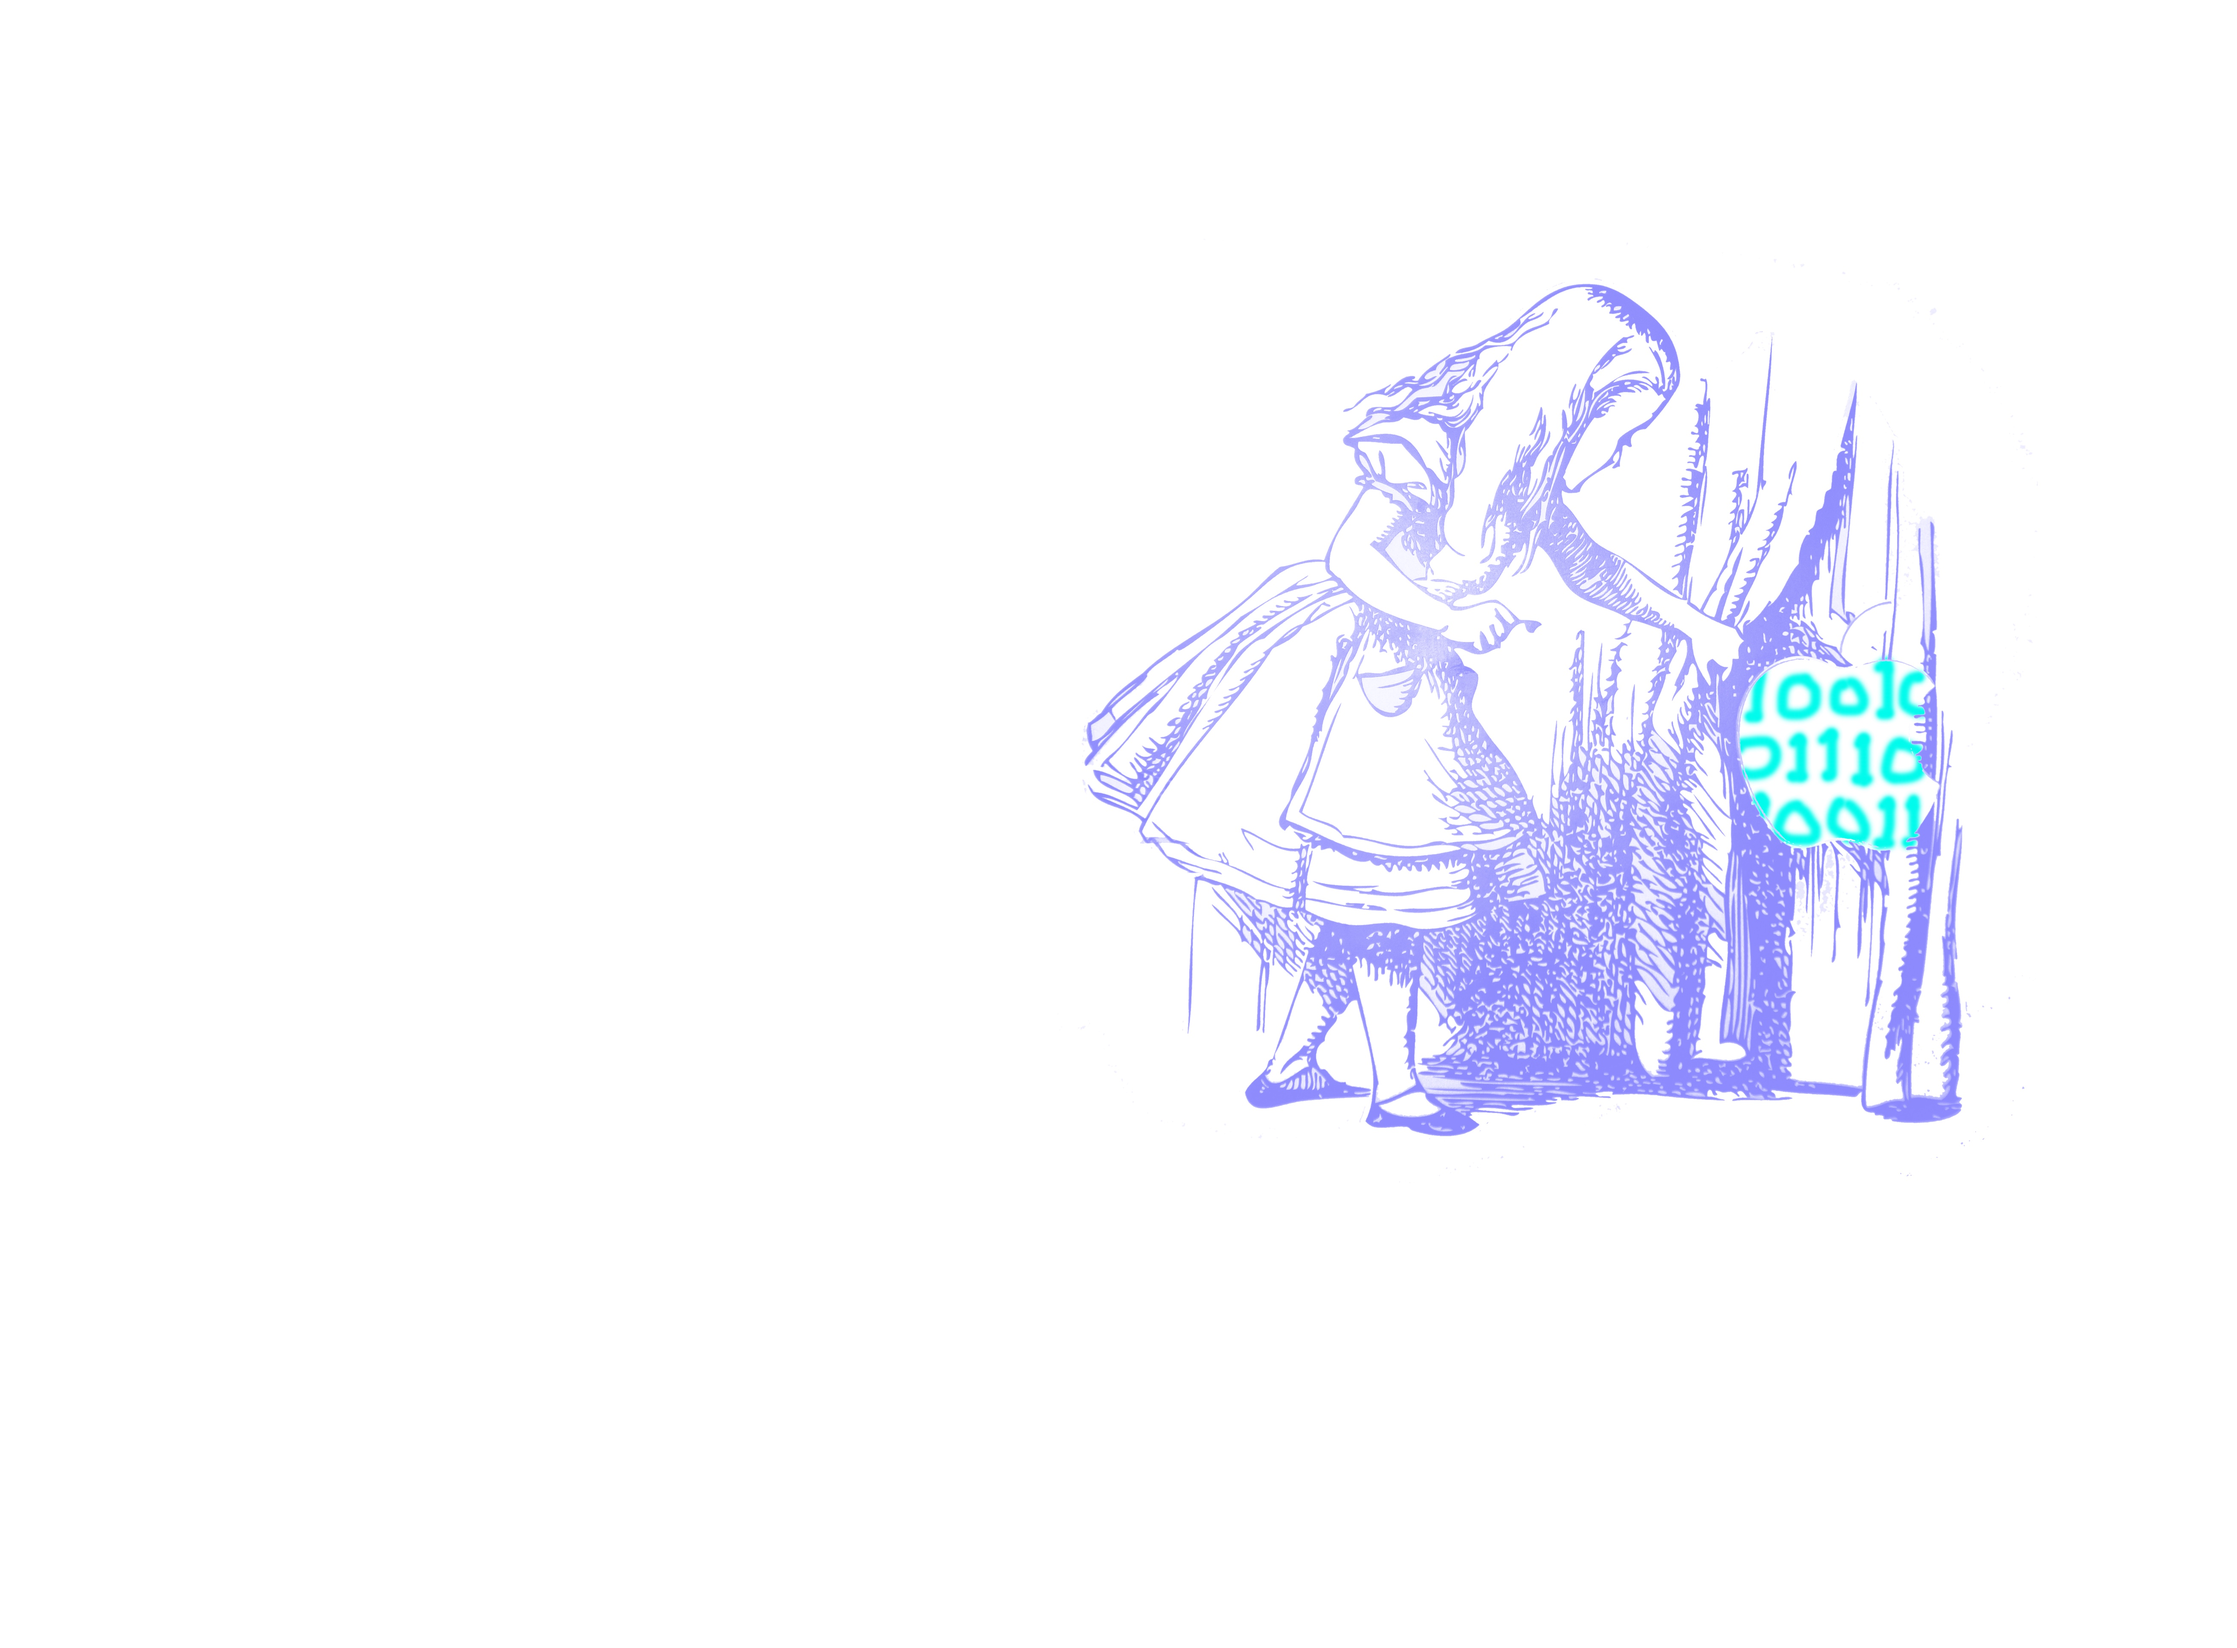
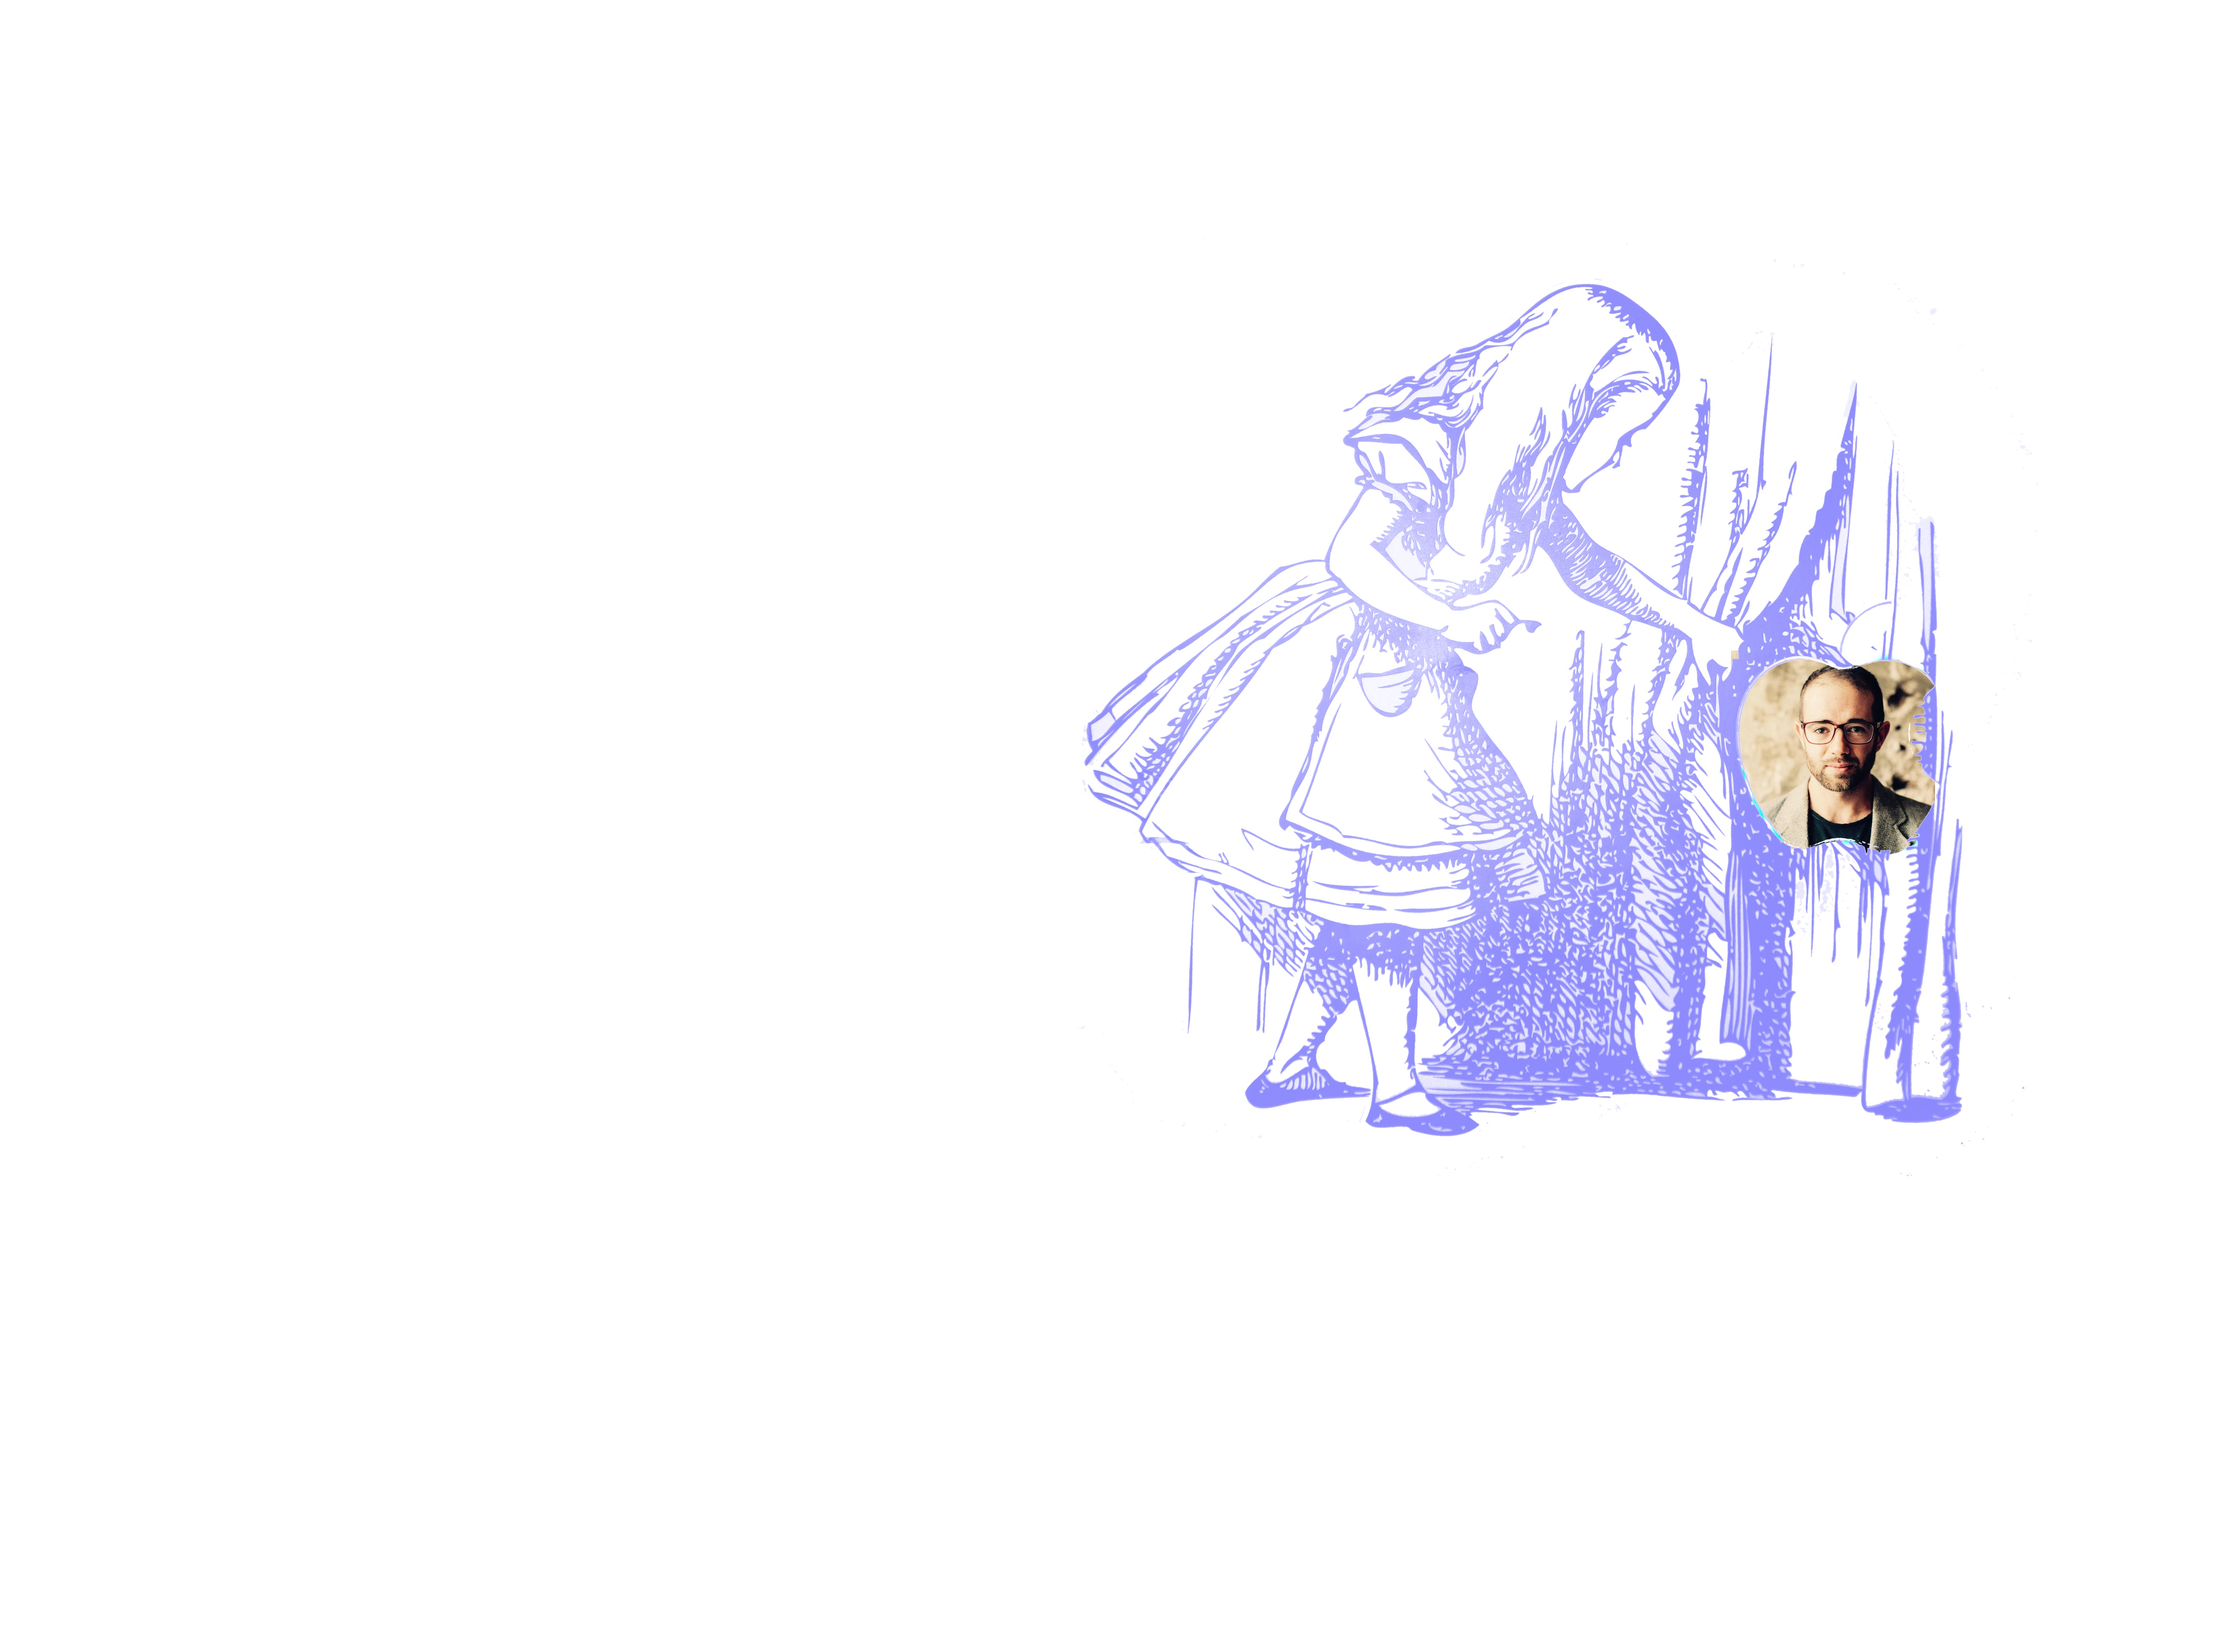
updated about page

Changed region(s): [[0.7771, 0.4038, 0.8703, 0.5281]]

diff --git a/_site/about.html b/_site/about.html
@@ -2,7 +2,7 @@
 <html lang="en">
 <head>
   <meta charset="utf-8">
-  <title>BLOG</title>
+  <title>kHodeR</title>
   <link href='https://cdnjs.cloudflare.com/ajax/libs/materialize/0.97.3/css/materialize.min.css' rel='stylesheet'>
   <link href="/css/reset.css" rel="stylesheet" />
   <link href="/css/styles.css" rel="stylesheet" />
@@ -30,25 +30,26 @@
       </div>
     </nav>
   </div>
-
-
 <!--
   <div class="container"> -->
 <body>
 
 
-<div id="date_box">
-  <p id="date">About</p>
-</div>
-<div id="blog_post">
-  <p id="content"> Steven Olson worked for 10 years as a commercial fisherman in Alaska before enrolling
-    at the <a href="http://turing.io/">Turing School of Software and Design</a>, where he is currently
-    studying full stack web development. He has a BA in English from Colorado Mesa University, and a
-    passion for travel and photography.
-    </p>
+<div style="background-image: url('/images/background.jpg')"></div>
+
+  <div id="preview">
+    <div id="date_box">
+      <h2 id="date">Steve Olson</h2>
+    </div>
+    I worked for 10 years as a commercial fisherman in Alaska before enrolling
+      at the <a href="http://turing.io/">Turing School of Software and Design</a>, where I'm currently
+      studying full stack web development. I have a BA in English from Colorado Mesa University, and a
+      passion for travel and photography.
+
+    <img id="profile_pic" src="/images/steve.jpg" alt="Steve Olson" alt="Steven Olson"/>
+  </div>
 
 </div>
-<img id="profile_pic" src="/images/steve.jpg" alt="Steve Olson" alt="Steven Olson"/>
 
 
 <!-- </div> -->

diff --git a/about.html b/about.html
@@ -1,16 +1,18 @@
 ---
 layout: default
 ---
+<div style="background-image: url('/images/background.jpg')"></div>
 
-<div id="date_box">
-  <p id="date">About</p>
-</div>
-<div id="blog_post">
-  <p id="content"> Steven Olson worked for 10 years as a commercial fisherman in Alaska before enrolling
-    at the <a href="http://turing.io/">Turing School of Software and Design</a>, where he is currently
-    studying full stack web development. He has a BA in English from Colorado Mesa University, and a
-    passion for travel and photography.
-    </p>
+  <div id="preview">
+    <div id="date_box">
+      <h2 id="date">Steve Olson</h2>
+    </div>
+    I worked for 10 years as a commercial fisherman in Alaska before enrolling
+      at the <a href="http://turing.io/">Turing School of Software and Design</a>, where I'm currently
+      studying full stack web development. I have a BA in English from Colorado Mesa University, and a
+      passion for travel and photography.
+
+    <img id="profile_pic" src="/images/steve.jpg" alt="Steve Olson" alt="Steven Olson"/>
+  </div>
 
 </div>
-<img id="profile_pic" src="/images/steve.jpg" alt="Steve Olson" alt="Steven Olson"/>

diff --git a/_site/index.html b/_site/index.html
@@ -2,7 +2,7 @@
 <html lang="en">
 <head>
   <meta charset="utf-8">
-  <title>BLOG</title>
+  <title>kHodeR</title>
   <link href='https://cdnjs.cloudflare.com/ajax/libs/materialize/0.97.3/css/materialize.min.css' rel='stylesheet'>
   <link href="/css/reset.css" rel="stylesheet" />
   <link href="/css/styles.css" rel="stylesheet" />
@@ -30,8 +30,6 @@
       </div>
     </nav>
   </div>
-
-
 <!--
   <div class="container"> -->
 <body>
@@ -40,7 +38,7 @@
 <img id="posts_img" src="/images/posts.jpg" alt="" />
 <div class="post_box">
   
-    <h2><a href="/2015/12/27/polymorphism-hmt.html">Polymorphism vs many_to_many</a></h2>
+    <h2><a href="/2015/12/27/polymorphism-hmt.html">Rails Database - Polymorphism vs many_to_many</a></h2>
     <p>12-27-2015</p>
     <p><a href="/2015/12/27/polymorphism-hmt.html"><div id="preview">As a new student of Rails, I was slow to wrap my head around the difference between polymorphic associations and 'many_to_many' via has_many :though (HMT) associations using ActiveRecord. Are they...</div></a></p>
   

diff --git a/_site/2015/12/27/polymorphism-hmt.html b/_site/2015/12/27/polymorphism-hmt.html
@@ -2,7 +2,7 @@
 <html lang="en">
 <head>
   <meta charset="utf-8">
-  <title>BLOG</title>
+  <title>kHodeR</title>
   <link href='https://cdnjs.cloudflare.com/ajax/libs/materialize/0.97.3/css/materialize.min.css' rel='stylesheet'>
   <link href="/css/reset.css" rel="stylesheet" />
   <link href="/css/styles.css" rel="stylesheet" />
@@ -30,8 +30,6 @@
       </div>
     </nav>
   </div>
-
-
 <!--
   <div class="container"> -->
 <body>
@@ -42,7 +40,7 @@
 
 <div id="blog_post">
   <div id="post_header">
-    <h2 class="blog_title">Polymorphism vs many_to_many</h2>
+    <h2 class="blog_title">Rails Database - Polymorphism vs many_to_many</h2>
     <h6 id="date">December 27, 2015</h6>
   </div>
 

diff --git a/_site/2015/12/21/test-post.html b/_site/2015/12/21/test-post.html
@@ -2,7 +2,7 @@
 <html lang="en">
 <head>
   <meta charset="utf-8">
-  <title>BLOG</title>
+  <title>kHodeR</title>
   <link href='https://cdnjs.cloudflare.com/ajax/libs/materialize/0.97.3/css/materialize.min.css' rel='stylesheet'>
   <link href="/css/reset.css" rel="stylesheet" />
   <link href="/css/styles.css" rel="stylesheet" />
@@ -30,8 +30,6 @@
       </div>
     </nav>
   </div>
-
-
 <!--
   <div class="container"> -->
 <body>

diff --git a/_site/css/styles.css b/_site/css/styles.css
@@ -161,17 +161,19 @@ h1, .name {
 #profile_pic {
   display: block;
   height: 100px;
-  opacity: 0.2;
-  left: 12%;
+  opacity: 0.8;
+  margin: auto;
   position: relative;
-  border-radius: 10%;
-  padding: -10%;
-}
-#profile_pic:hover {
-  opacity: 3.0;
   height: 250px;
   padding: 0;
   border-radius: 50%;
+}
+#profile_pic:hover {
+  opacity: 1;
+
+}
+#about {
+  max-width: 50%;
 }
 
 /*

diff --git a/css/styles.css b/css/styles.css
@@ -161,17 +161,19 @@ h1, .name {
 #profile_pic {
   display: block;
   height: 100px;
-  opacity: 0.2;
-  left: 12%;
+  opacity: 0.8;
+  margin: auto;
   position: relative;
-  border-radius: 10%;
-  padding: -10%;
-}
-#profile_pic:hover {
-  opacity: 3.0;
   height: 250px;
   padding: 0;
   border-radius: 50%;
+}
+#profile_pic:hover {
+  opacity: 1;
+
+}
+#about {
+  max-width: 50%;
 }
 
 /*

diff --git a/_posts/2015-12-27-polymorphism-hmt.html b/_posts/2015-12-27-polymorphism-hmt.html
@@ -1,5 +1,5 @@
 ---
-title: Polymorphism vs many_to_many
+title: Rails Database - Polymorphism vs many_to_many 
 layout: post
 date: 2015-12-27
 ---

diff --git a/_includes/header.html b/_includes/header.html
@@ -30,8 +30,6 @@
       </div>
     </nav>
   </div>
-
-
 <!--
   <div class="container"> -->
 <body>
